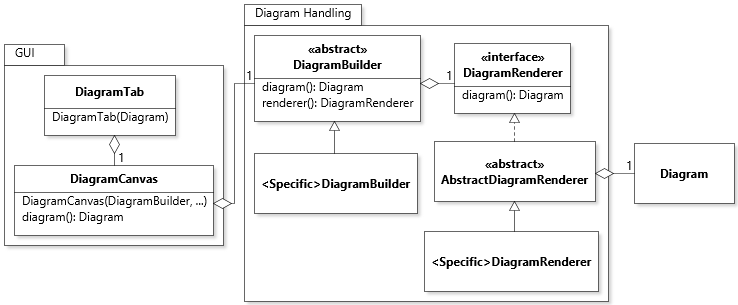
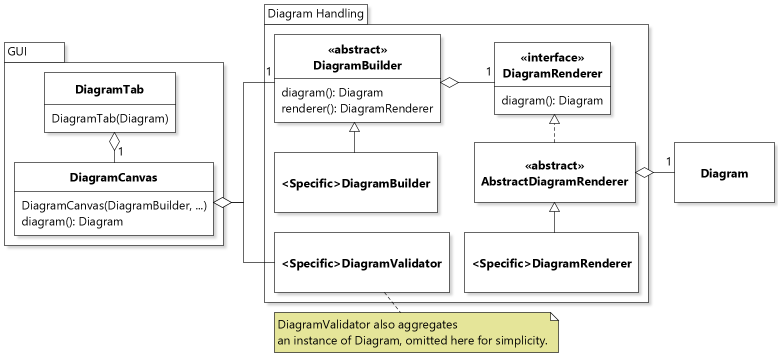
[#585] Update the documentation for DiagramState

Changed region(s): [[0.0, 0.0, 1.0, 1.0], [0.8726, 0.3836, 0.9973, 0.4131]]

diff --git a/docs/functional/DiagramState.md b/docs/functional/DiagramState.md
@@ -14,6 +14,7 @@ The objects involved in this design are:
 * `Diagram`: The simple data model for a diagram: nodes and edges.
 * `DiagramRenderer`: A wrapper that can compute the geometry of the diagram. This wrapper has additional state to cache computations and support global path planning of edges.
 * `DiagramBuilder`: Wrapper around a `DiagramRenderer` that provides business rules for modifying a diagram while preserving its validity.
+* `DiagramValidator`: Wrapper around the same diagram as the renderer, which can check various constraints to determine whether the diagram is valid or not.
 * `DiagramCanvas`: The area of the GUI where the diagram is visually displayed.
 * `DiagramTab`: The top-level GUI component that hosts the diagram canvas.
 
